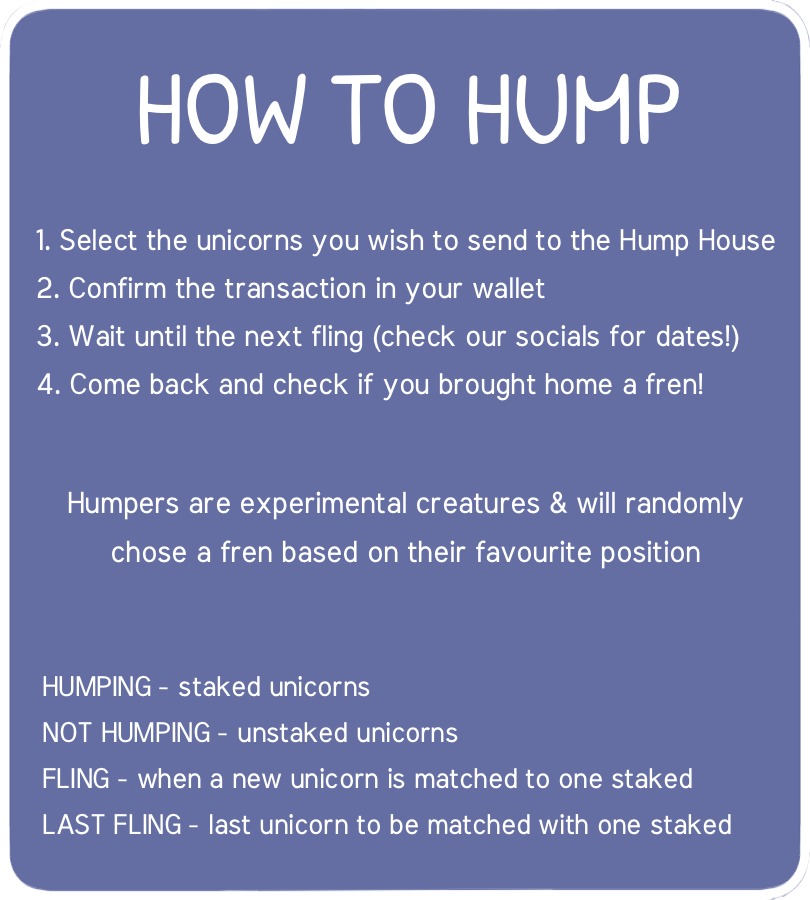
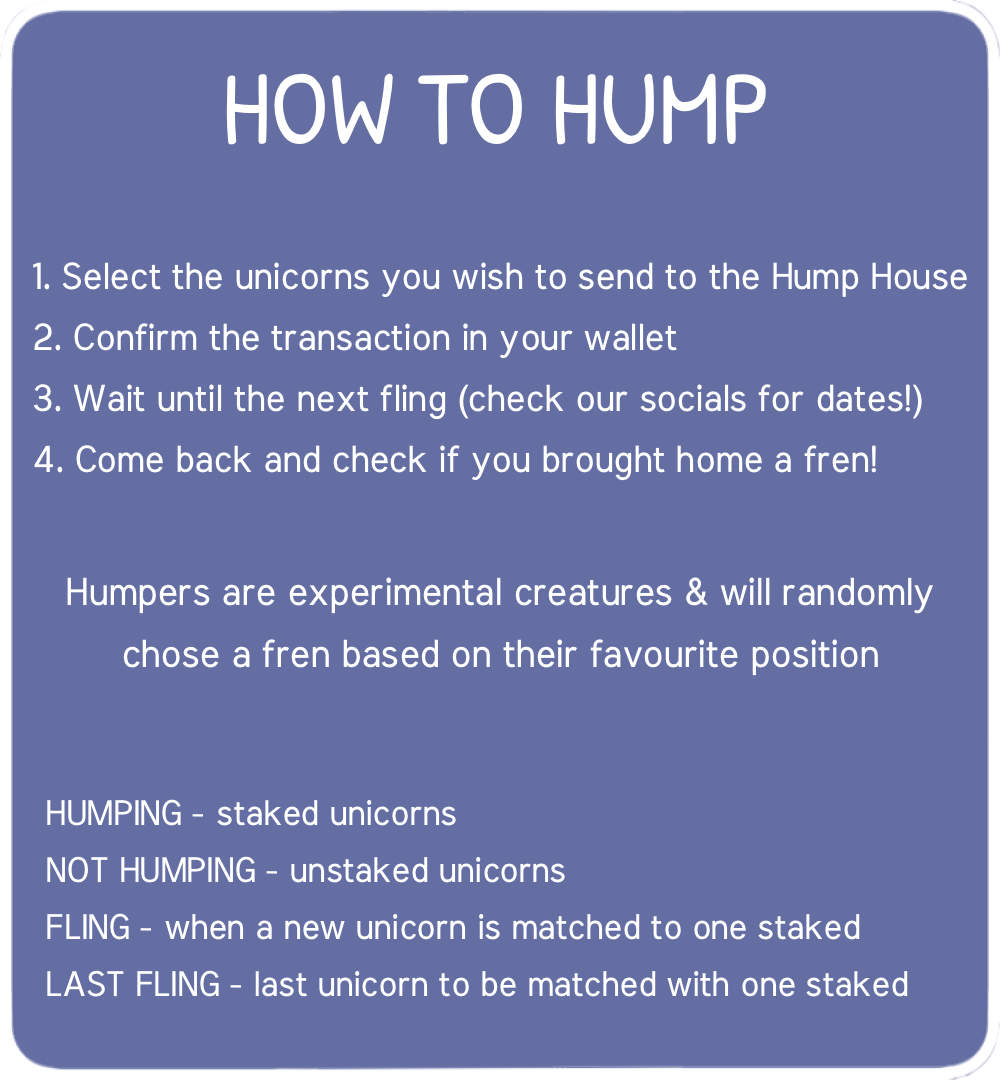
Final UI changes

diff --git a/src/app/Components/Modal/Modal.tsx b/src/app/Components/Modal/Modal.tsx
@@ -8,19 +8,16 @@ interface ModalProps {
 
 const Modal: React.FC<ModalProps> = props => {
   return (
-    <div className="popup-box flex justify-center fixed inset-0 z-50">
-      <div className={`box flex-col`}>
+    <div className="popup-box flex justify-center items-center fixed inset-0 z-50">
+      <div className={`box flex flex-col items-center`}>
         {props.content}
         <button
-            className={`w-full bg-[#414A78] p-2 border-4 mt-2 border-solid border-white font-text text-2xl rounded-2xl hover:bg-pink-300 shadow-2xl shadow-white space-x-2`}
+            className={`bg-[#4d619e] p-2 mt-2 border-2 border-solid border-white text-[#f3f3f3] font-text text-sm rounded-xl hover:bg-pink-300 mx-auto`}
             data-text="Fermer"
             onClick={props.handleClose}
         >
-                            <span className="align-middle text-white">C</span>
-                            <span className="align-middle text-white">L</span>
-                            <span className="align-middle text-white">O</span>
-                            <span className="align-middle text-white">S</span>
-                            <span className="align-middle text-white">E</span>
+                            <span className="align-middle text-white">X</span>
+                            
         </button>
       </div>
     </div>

diff --git a/src/app/Components/utils/Twitter/TwitterIntent.tsx b/src/app/Components/utils/Twitter/TwitterIntent.tsx
@@ -4,11 +4,18 @@ import Image from 'next/image';
 
 export default function TwitterIntent(){
     return(
-        <div>
-
-        <a href="https://twitter.com/intent/tweet?url=https://unicorn-app-ten.vercel.app/&text=I%20just%20sent%20my%20Unicorns%20to%20the%20Hump%20House%21%0A%0AThey%20have%20a%20chance%20to%20bring%20home%20a%20swinging%20unicorn%20based%20on%20their%20favorite%20humping%20position.">
+        <div className='w-full h-auto flex flex-col justify-start items-center'>
+        <button 
+            className="w-[200px] bg-[#4d619e] p-2 border-2 border-solid border-white text-[#f3f3f3] font-text text-xl rounded-2xl hover:bg-pink-300 shadow-2xl flex flex-col items-center"
+            onClick={() => window.open("https://twitter.com/intent/tweet?url=https://unicorn-app-ten.vercel.app/&text=I%20just%20sent%20my%20Unicorns%20to%20the%20Hump%20House%21%0A%0AHopefully%20they're%20lucky%20enough%20to%20have%20a%20fling%20and%20bring%20home%20a%20friend!", "_blank")}
+        >
+            <img 
+                src="/humping_images/Tweet_About_It.gif"
+                className="w-full h-auto mb-2 rounded-2xl"
+                alt="Tweet About It"
+            />
             TWEET ABOUT IT!
-        </a> 
-        </div>
+        </button>
+    </div>
     )
 }

diff --git a/src/app/page.tsx b/src/app/page.tsx
@@ -53,7 +53,7 @@ function App() {
                         </div> }
             </div>
               { userAddress !== undefined && userChain===chains[0].id && 
-              <div> <p className='flex justify-center font-body text-sm text-center text-[#f3f3f3] p-4 mb-5'>Here you'll be able to stake your unicorns & be in with a chance of bringing home a fren! <br /> <br />Once staked (HUMPING), random weekly FLINGS will occur. Depending on your unicorn's FAVE POSITION, it could be matched with one waiting in the house... <br />If one of your Humping Unicorns is matched after a FLING, you can claim it and bring it home to your wallet!</p> <NftPage /></div>
+              <div> <p className='flex justify-center font-body text-[14px] text-center text-[#f3f3f3] p-4 mb-5'>Here you'll be able to stake your unicorns & be in with a chance of bringing home a fren! <br /> <br />Once staked (HUMPING), random weekly FLINGS will occur. Depending on your unicorn's FAVE POSITION, it could be matched with one waiting in the house... <br />If one of your Humping Unicorns is matched after a FLING, you can claim it and bring it home to your wallet!</p> <NftPage /></div>
               }
                     
         </div>

diff --git a/src/app/Components/utils/rules/RulesButton.tsx b/src/app/Components/utils/rules/RulesButton.tsx
@@ -20,7 +20,7 @@ export default function RulesButton(){
         </button> 
         {showRulesUnicorn && <Modal
             content={<>
-                <Image src="/humping_images/How_To_Hump_2.png" width={320} height={100} alt="rules of unicorn app"/>
+                <Image src="/humping_images/How_To_Hump_2.png" width={380} height={100} alt="rules of unicorn app"/>
             </>}
             handleClose={toggleShowRulesUnicorn}
         />}

diff --git a/src/app/Components/Navbar/Navbar.tsx b/src/app/Components/Navbar/Navbar.tsx
@@ -39,7 +39,7 @@ const Navbar = ({ toggle }: { toggle: () => void }) => {
               viewBox="0 0 24 24"
             >
               <path
-                fill="#414A78"
+                fill="#ffffff"
                 d="M3 6h18v2H3V6m0 5h18v2H3v-2m0 5h18v2H3v-2Z"
               />
             </svg>
